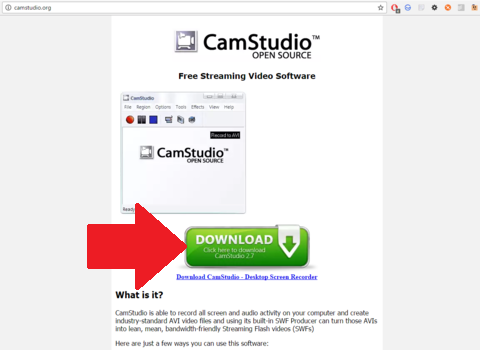
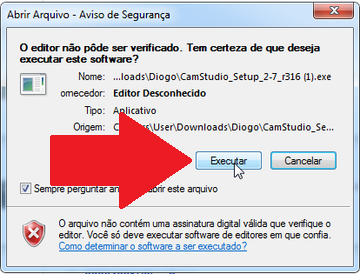
Correções gerais
Refiz a parte de instalação do computador e do iniciar gravação.

diff --git a/index.html b/index.html
@@ -110,69 +110,74 @@
 				<li><a href="#step-5">Passo 5<br /></a></li>
 				<li><a href="#step-6">Passo 6<br /></a></li>
 				<li><a href="#step-7">Passo 7<br /></a></li>
-				<li><a href="#step-8">Passo 8<br /></a></li>				
+				<li><a href="#step-8">Passo 8<br /></a></li>											
             </ul>            
             <div>
                 <div id="step-1" class="">
 					<ul>
 					<h3><b>No Computador:</b></h3></br></br>
-					<h4><li>Clique no botão abaixo para abrir o site do CamStudio em outra aba do navegador.</li></h4></br>		
+					<h4><li>Clique no botão abaixo para baixar o CamStudio.</li></h4></br>		
 					<button class="btn btn-info btn_margin btn-lg" id="btn_sitecamstudio"> 						
-						<span class="glyphicon glyphicon-arrow-right"></span>
-						<span style="font-family: Arial;"> Site do CamStudio</span>
+						<span class="glyphicon glyphicon-floppy-disk"></span>
+						<span style="font-family: Arial;"> Download</span>
 					</button>
 					</ul>
-                </div>						
+                </div>
 				<div id="step-2" class=""></br>
 					<ul>
 					<h3><b>No Computador:</b></h3></br></br>
-					<h4><li>Clique no botão de "Download"</li></h4></br>						
+					<h4><li>Após finalizar o "Download", clique no arquivo para instalar.</li></h4></br>
+					<h4><li>Clique em "Executar"</li></h4></br>			
+					<h4><li>Clique em "Next"</li></br>
 					<img src="img/CamStudio1.png" alt="Instalar" class="img">				
-					</ul>
+					<img src="img/CamStudio2.png" alt="Instalar" class="img">
+					</ul>  
                 </div>	
 				<div id="step-3" class=""></br>
 					<ul>
 					<h3><b>No Computador:</b></h3></br></br>
-					<h4><li>Clique em "Pular" nas duas próximas telas da instalação.</li></h4></br>						
-					<img src="img/CamStudio2.png" alt="Instalar" class="img">											
-					<img src="img/CamStudio2.1.png" alt="Instalar" class="img">	
-					</ul>
-                </div>
-				<div id="step-4" class=""></br>
-					<ul>
-					<h3><b>No Computador:</b></h3></br></br>
-					<h4><li>Após finalizar o "Download", clique no arquivo para instalar.</li></h4></br>
-					<h4><li>Clique em "Next"</li></h4></br>			
-					<h4><li>Clique em "Accept"</li></br>
-					<img src="img/CamStudio4.png" alt="Instalar" class="img">				
-					<img src="img/CamStudio5.png" alt="Instalar" class="img">
-					</ul>  
-                </div>	
-				<div id="step-5" class=""></br>
-					<ul>
-					<h3><b>No Computador:</b></h3></br></br>
-					<h4><li>DESELECIONE o checkbox e clique em "Accept"</li></h4></br>				
-					<h4><li>Clique em "Decline"</li></h4></br>							
-					<img src="img/CamStudio6.png" alt="Instalar" class="img">								
-					<img src="img/CamStudio7.png" alt="Instalar" class="img">								
+					<h4><li>SELECIONE o checkbox "I accept the agreement"</li></h4></br>				
+					<h4><li>Clique em "Next"</li></h4></br>							
+					<img src="img/CamStudio3.png" alt="Instalar" class="img">								
+					<img src="img/CamStudio4.png" alt="Instalar" class="img">								
 					</ul>   				
 				</div>
-				<div id="step-6" class="">	</br>
+				<div id="step-4" class="">	</br>
 					<ul>				
 					<h3><b>No Computador:</b></h3></br></br>
-					<h4><li>Ao final da instalação, clique em "Finish"</li></h4></br>	
-					<h4><li>Clique em "Decline"</li></h4></br>
-					<img src="img/CamStudio8.png" alt="Instalar" class="img">											
-					<img src="img/CamStudio9.png" alt="Instalar" class="img">											
+					<h4><li>Clique em "Next"</li></h4></br>	
+					<h4><li>Clique em "Next"</li></h4></br>
+					<img src="img/CamStudio5.png" alt="Instalar" class="img">											
+					<img src="img/CamStudio6.png" alt="Instalar" class="img">											
 					</ul>  
 				</div>
+				<div id="step-5" class="">	</br>
+					<ul>					
+					<h3><b>No Computador:</b></h3></br></br>
+					<h4><li>Clique em "Next"</li></h4></br>					
+					<h4><li>Clique em "Install"</li></h4></br>	
+					<img src="img/CamStudio7.png" alt="Instalar" class="img">											
+					<img src="img/CamStudio8.png" alt="Instalar" class="img">											
+					</ul>        				
+				</div>		
+				<div id="step-6" class="">	</br>
+					<ul>					
+					<h3><b>No Computador:</b></h3></br></br>
+					<h4><li>Espere para terminar a instalação</li></h4></br>					
+					<h4><li>Clique em "Next"</li></h4></br>	
+					<img src="img/CamStudio9.png" alt="Instalar" class="img">											
+					<img src="img/CamStudio10.png" alt="Instalar" class="img">											
+					</ul>        				
+				</div>		
 				<div id="step-7" class="">	</br>
 					<ul>					
 					<h3><b>No Computador:</b></h3></br></br>
-					<h4><li>Clique em "Close"</li></h4></br>					
-					<img src="img/CamStudio10.png" alt="Instalar" class="img">											
+					<h4><li>Desmarque a opção "Watch Tutorial Video"</li></h4></br>					
+					<h4><li>Clique em "Finish"</li></h4></br>	
+					<img src="img/CamStudio11.png" alt="Instalar" class="img">											
+					<img src="img/CamStudio12.png" alt="Instalar" class="img">											
 					</ul>        				
-				</div>			
+				</div>				
 				<div id="step-8" class="">	</br>
 					<ul>
 					<h3><b>No Computador:</b></h3></br></br>
@@ -270,12 +275,14 @@
 				<div id="step-8" class=""></br>                
 					<ul>								
 					<h3><b>No SmartPhone:</b></h3></br></br>
-					<h4><li>A sincronização está completa e agora você pode abrir o aplicativo a ser testado no smartphone.</li></h4></br>
-					<h4><li>Agora você pode introduzir o participante ao teste.</li></h4></br>
+					<h4><li>A sincronização está completa e você pode abrir o aplicativo a ser testado no smartphone.</li></h4></br>
+					<h4><li>O smartphone está pronto para realizar o teste e agora você pode introduzir o participante ao teste.</li></h4></br>
 					<h4><li>Antes do participante iniciar suas tarefas, inicie a gravação utilizando o botão abaixo.</li></h4></br>
-					<button class="btn btn-success btn_margin btn-lg" id="btn_iniciargravacao">
-						<span style="font-family: Arial;"> Iniciar Gravação</span>
-					</button>					
+					<h4>
+						<button class="btn btn-success btn_margin btn-lg" id="btn_iniciargravacao">
+							<span style="font-family: Arial;"> Iniciar Gravação</span>
+						</button>					
+					</h4>
 					</ul>   					
                 </div>
             </div>
@@ -288,38 +295,56 @@
                 <li><a href="#step-1">Passo 1<br /></a></li>
                 <li><a href="#step-2">Passo 2<br /></a></li>
                 <li><a href="#step-3">Passo 3<br /></a></li>                			
+				<li><a href="#step-4">Passo 4<br /></a></li>
+				<li><a href="#step-5">Passo 5<br /></a></li>				
             </ul>            
             <div>               
 				<div id="step-1" class="">
 					<ul>
+					<h3><b>Verifique esses itens antes de iniciar a gravação:</b></h3></br>
+					<h4><li>O aplicativo a ser testado está aberto no smartphone do participante.</li></h4></br>
+					<h4><li>O participante está ciente das tarefas, pronto para o teste e esperando seu comando pra começar a realizar as tarefas. </li></h4></br>
+					</ul>  
+                </div>
+				<div id="step-2" class="">
+					<ul>
 					<h3><b>No Computador:</b></h3></br>
-					<h4><li>Abra o "CamStudio</li></h4></br>
+					<h4><li>Caso não esteja aberto, abra o "CamStudio"</li></h4></br>
 					<h4><li>Clique em "Region"</li></h4></br>
 					<img src="img/AbrirCamStudio.png" alt="Instalar" class="img">											
 					<img src="img/CamStudioSync1.png" alt="Instalar" class="img">														
 					</ul>  
                 </div>
-				<div id="step-2" class=""></br>                
+				<div id="step-3" class=""></br>                
 					<ul>
 					<h3><b>No Computador:</b></h3></br>
-					<h4><li>Clique na aba do site do AirMore</li></h4></br>										
+					<h4><li>Deixe duas janelas de navegadores um ao lado da outra, como mostrado na figura abaixo</li></h4></br>
+					<h4><li>Deixe o site do AirMore no navegador do lado esquerdo da tela</li></h4></br>	
+					<h4><li>Deixe o CamStudio no lado direito da tela</li></h4></br>	
+					<img src="img/telasplit.png" alt="Instalar" class="img"></br></br>					
+					</ul>                  
+                </div>		
+				<div id="step-4" class=""></br>                
+					<ul>
+					<h3><b>No Computador:</b></h3></br>									
 					<h4><li>Clique no botão de "Gravar" no CamStudio</li></h4></br>										
 					<h4><li>Selecione a região do espelhamento do Smartphone no site do AirMore</li></h4></br>					
 					<img src="img/CamStudioSync2.png" alt="Instalar" class="img"></br></br>
 					<img src="img/CamStudioSync3.png" alt="Instalar" class="img">					
 					</ul>                  
                 </div>				
-				<div id="step-3" class=""></br>                
+				<div id="step-5" class=""></br>                
 					<ul>
-					<h3><b>No Computador:</b></h3></br>
+					<h3><b>Preparando o início do teste:</b></h3></br>
 					<h4><li>O Smartphone do participante está sendo gravado a partir da área selecionada pelo CamStudio.</li></h4></br>
 					<h4><li>Portanto deixe espelhamento do Smartphone sempre dentro da área selecionada durante as tarefas do participante.</li></h4></br>							
-					<h4><li>Quando o participante finalizar suas tarefas, finalize a gravação através do botão "Finalizar gravação".</li></h4></br>		
+					<h4><li>Você pode sinalizar para o participante começar a realizar as tarefas propostas no teste.</li></h4></br>		
+					<h4><li>Quando o participante finalizar suas tarefas, finalize a gravação através do botão "Finalizar gravação" </br></br>
 					<button class="btn btn-success btn_margin btn-lg" id="btn_finalizargravacao">
 						<span style="font-family: Arial;"> Finalizar Gravação</span>
 					</button>					
 					</ul>                  
-                </div>
+                </div>				
             </div>
 			</div>
 		</div>
@@ -625,7 +650,7 @@
 			}); 
 			
 			$("#btn_sitecamstudio").on("click", function() {
-				openInNewTab('http://camstudio.org/');
+				openInNewTab('https://sourceforge.net/projects/camstudio/files/latest/download?source=files');
 			});
 			
 			$("#btn_instalacaosmartphone").on("click", function() {
